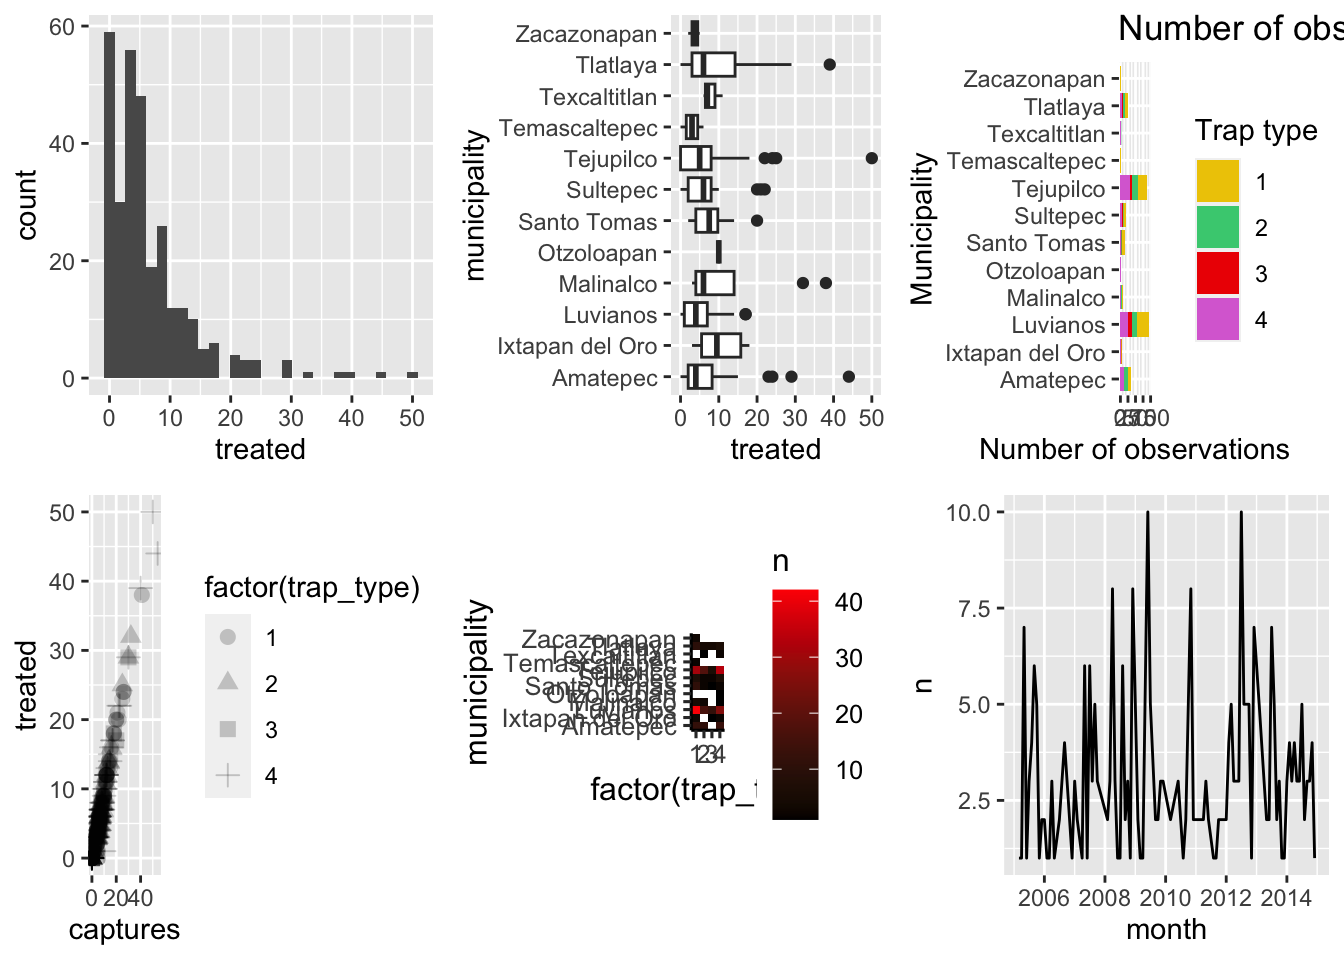
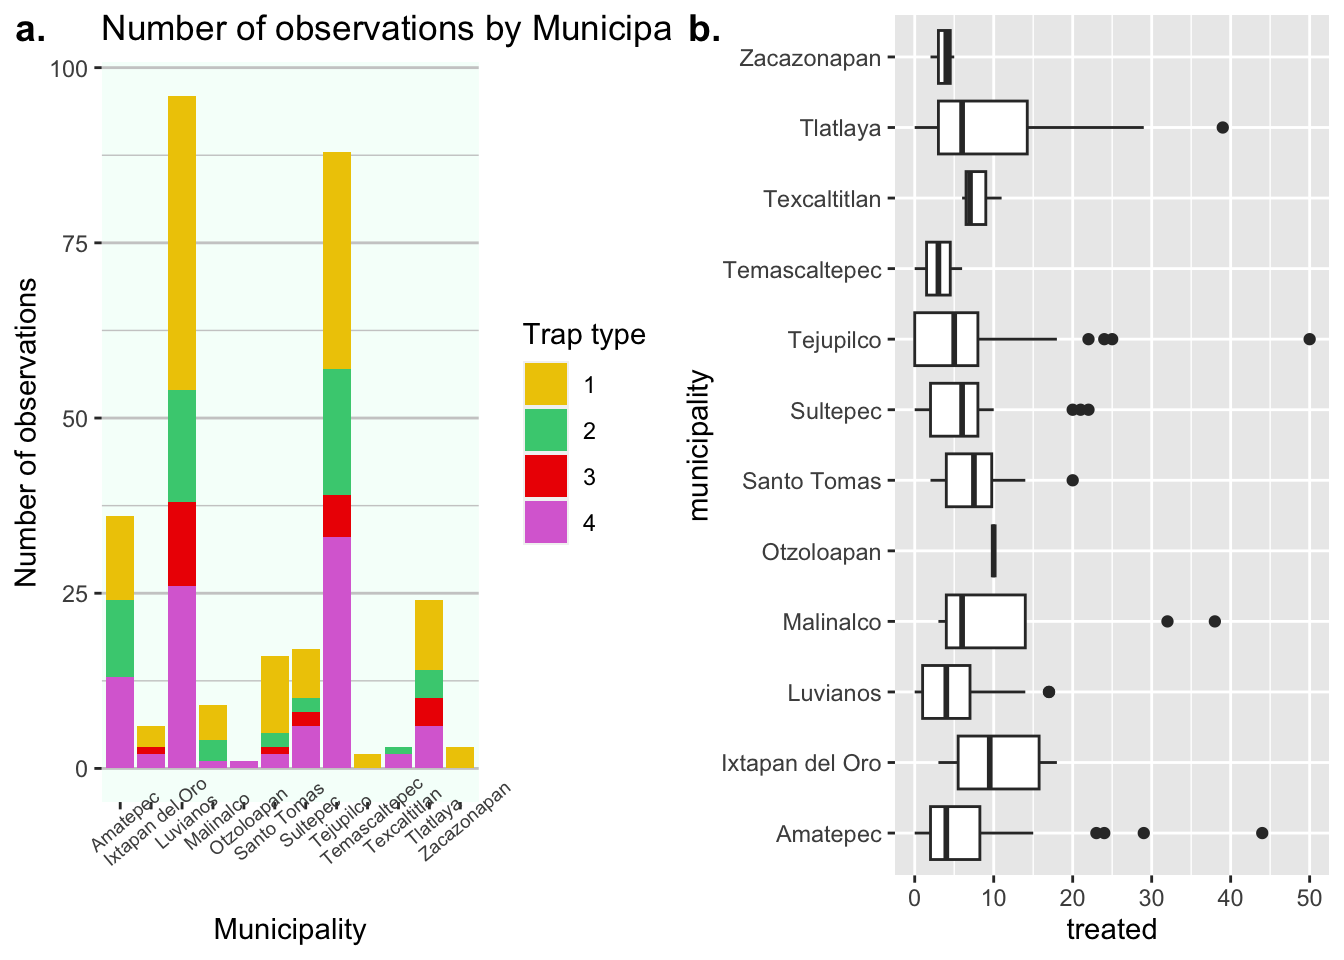
updated lesson III

diff --git a/DataViz_III.html b/DataViz_III.html
@@ -376,7 +376,7 @@ div.tocify {
 <h1><span class="header-section-number">1</span> Objectives:</h1>
 <ul>
 <li>Talk about figure arrangements</li>
-<li>Make the</li>
+<li>Make the data visualization exercise.</li>
 </ul>
 </div>
 <div id="arranging-the-plots-in-a-layout" class="section level1"
@@ -385,10 +385,51 @@ number="2">
 a layout</h1>
 <p>Now that we have all the figures in a list, we can make arrangements
 with our figures. For this we use the function <code>ggarrange()</code>
-from the ggpubr library.</p>
+from the <code>ggpubr</code> library. The <code>ggarrange()</code> takes
+multiple arguments, but the main one is the figures we want to arrange.
+We can specify the figures in two ways, defining a list with all our
+figures, or if we want specific figures we can define the figures one by
+one. For example:</p>
 <pre class="r"><code>library(ggpubr) # load the library
 ggarrange(plotlist = figures)</code></pre>
+<p><img src="DataViz_III_files/figure-html/ggpubr-1.png" width="672" /></p>
+<p>This might not be the best arrangement for the figures, since its too
+much information, so we can arrange it in several ‘pages’. The way
+<code>ggarrange()</code> organizes the figure is in a n x n grid. If not
+specified, it will try to arrange the all the figures in a single grid,
+but we can use the arguments <code>ncol</code> and <code>nrow</code> to
+limit the number of elements per cell in our grid. For example:</p>
+<pre class="r"><code>ggarrange(plotlist = figures, ncol = 2, nrow = 1)</code></pre>
+<pre><code>## $`1`</code></pre>
+<p><img src="DataViz_III_files/figure-html/limit%20elements-1.png" width="672" /></p>
+<pre><code>## 
+## $`2`</code></pre>
+<p><img src="DataViz_III_files/figure-html/limit%20elements-2.png" width="672" /></p>
+<pre><code>## 
+## $`3`</code></pre>
+<p><img src="DataViz_III_files/figure-html/limit%20elements-3.png" width="672" /></p>
+<pre><code>## 
+## attr(,&quot;class&quot;)
+## [1] &quot;list&quot;      &quot;ggarrange&quot;</code></pre>
+<p>If we want to select specific figures, we will need to either delete
+them from the list, or just add them one by one. We can also add labels
+to later reference in our figure caption, for example:</p>
+<pre class="r"><code>toppanel &lt;- ggarrange(
+  figures$bars, figures$box, # These are our figures
+  labels = c(&#39;a.&#39;, &#39;b.&#39;) # The labels
+) 
+
+toppanel</code></pre>
 <p><img src="DataViz_III_files/figure-html/unnamed-chunk-1-1.png" width="672" /></p>
+<p>We can also make arrangements with arrangements, for example:</p>
+<pre class="r"><code>p1 &lt;- ggarrange(toppanel, figures$timeseries, ncol = 1, heights = c(2, 1), labels = c(&#39;&#39;,&#39;c&#39;)) # Add another figure at the bottom
+
+p1</code></pre>
+<p><img src="DataViz_III_files/figure-html/unnamed-chunk-2-1.png" width="672" /></p>
+<p>Finaly we can add a general title for the arrangement</p>
+<pre class="r"><code>p1 %&gt;% 
+  annotate_figure(top = text_grob(&#39;Summary of the findings&#39;, face = &#39;bold&#39;, size = 20))</code></pre>
+<p><img src="DataViz_III_files/figure-html/unnamed-chunk-3-1.png" width="672" /></p>
 </div>
 <div id="facets" class="section level1" number="3">
 <h1><span class="header-section-number">3</span> Facets</h1>
@@ -407,7 +448,7 @@ rows and another for columns:</p>
   theme_pubclean() # lets try another theme
 
 figures$histogram</code></pre>
-<p><img src="DataViz_III_files/figure-html/unnamed-chunk-2-1.png" width="672" /></p>
+<p><img src="DataViz_III_files/figure-html/unnamed-chunk-4-1.png" width="672" /></p>
 <p>Now that you know some tools to look for information, you will have
 to make your figures on your own. If you want to make figures with the
 datasets we have been using you can do those, or you can use any of the
